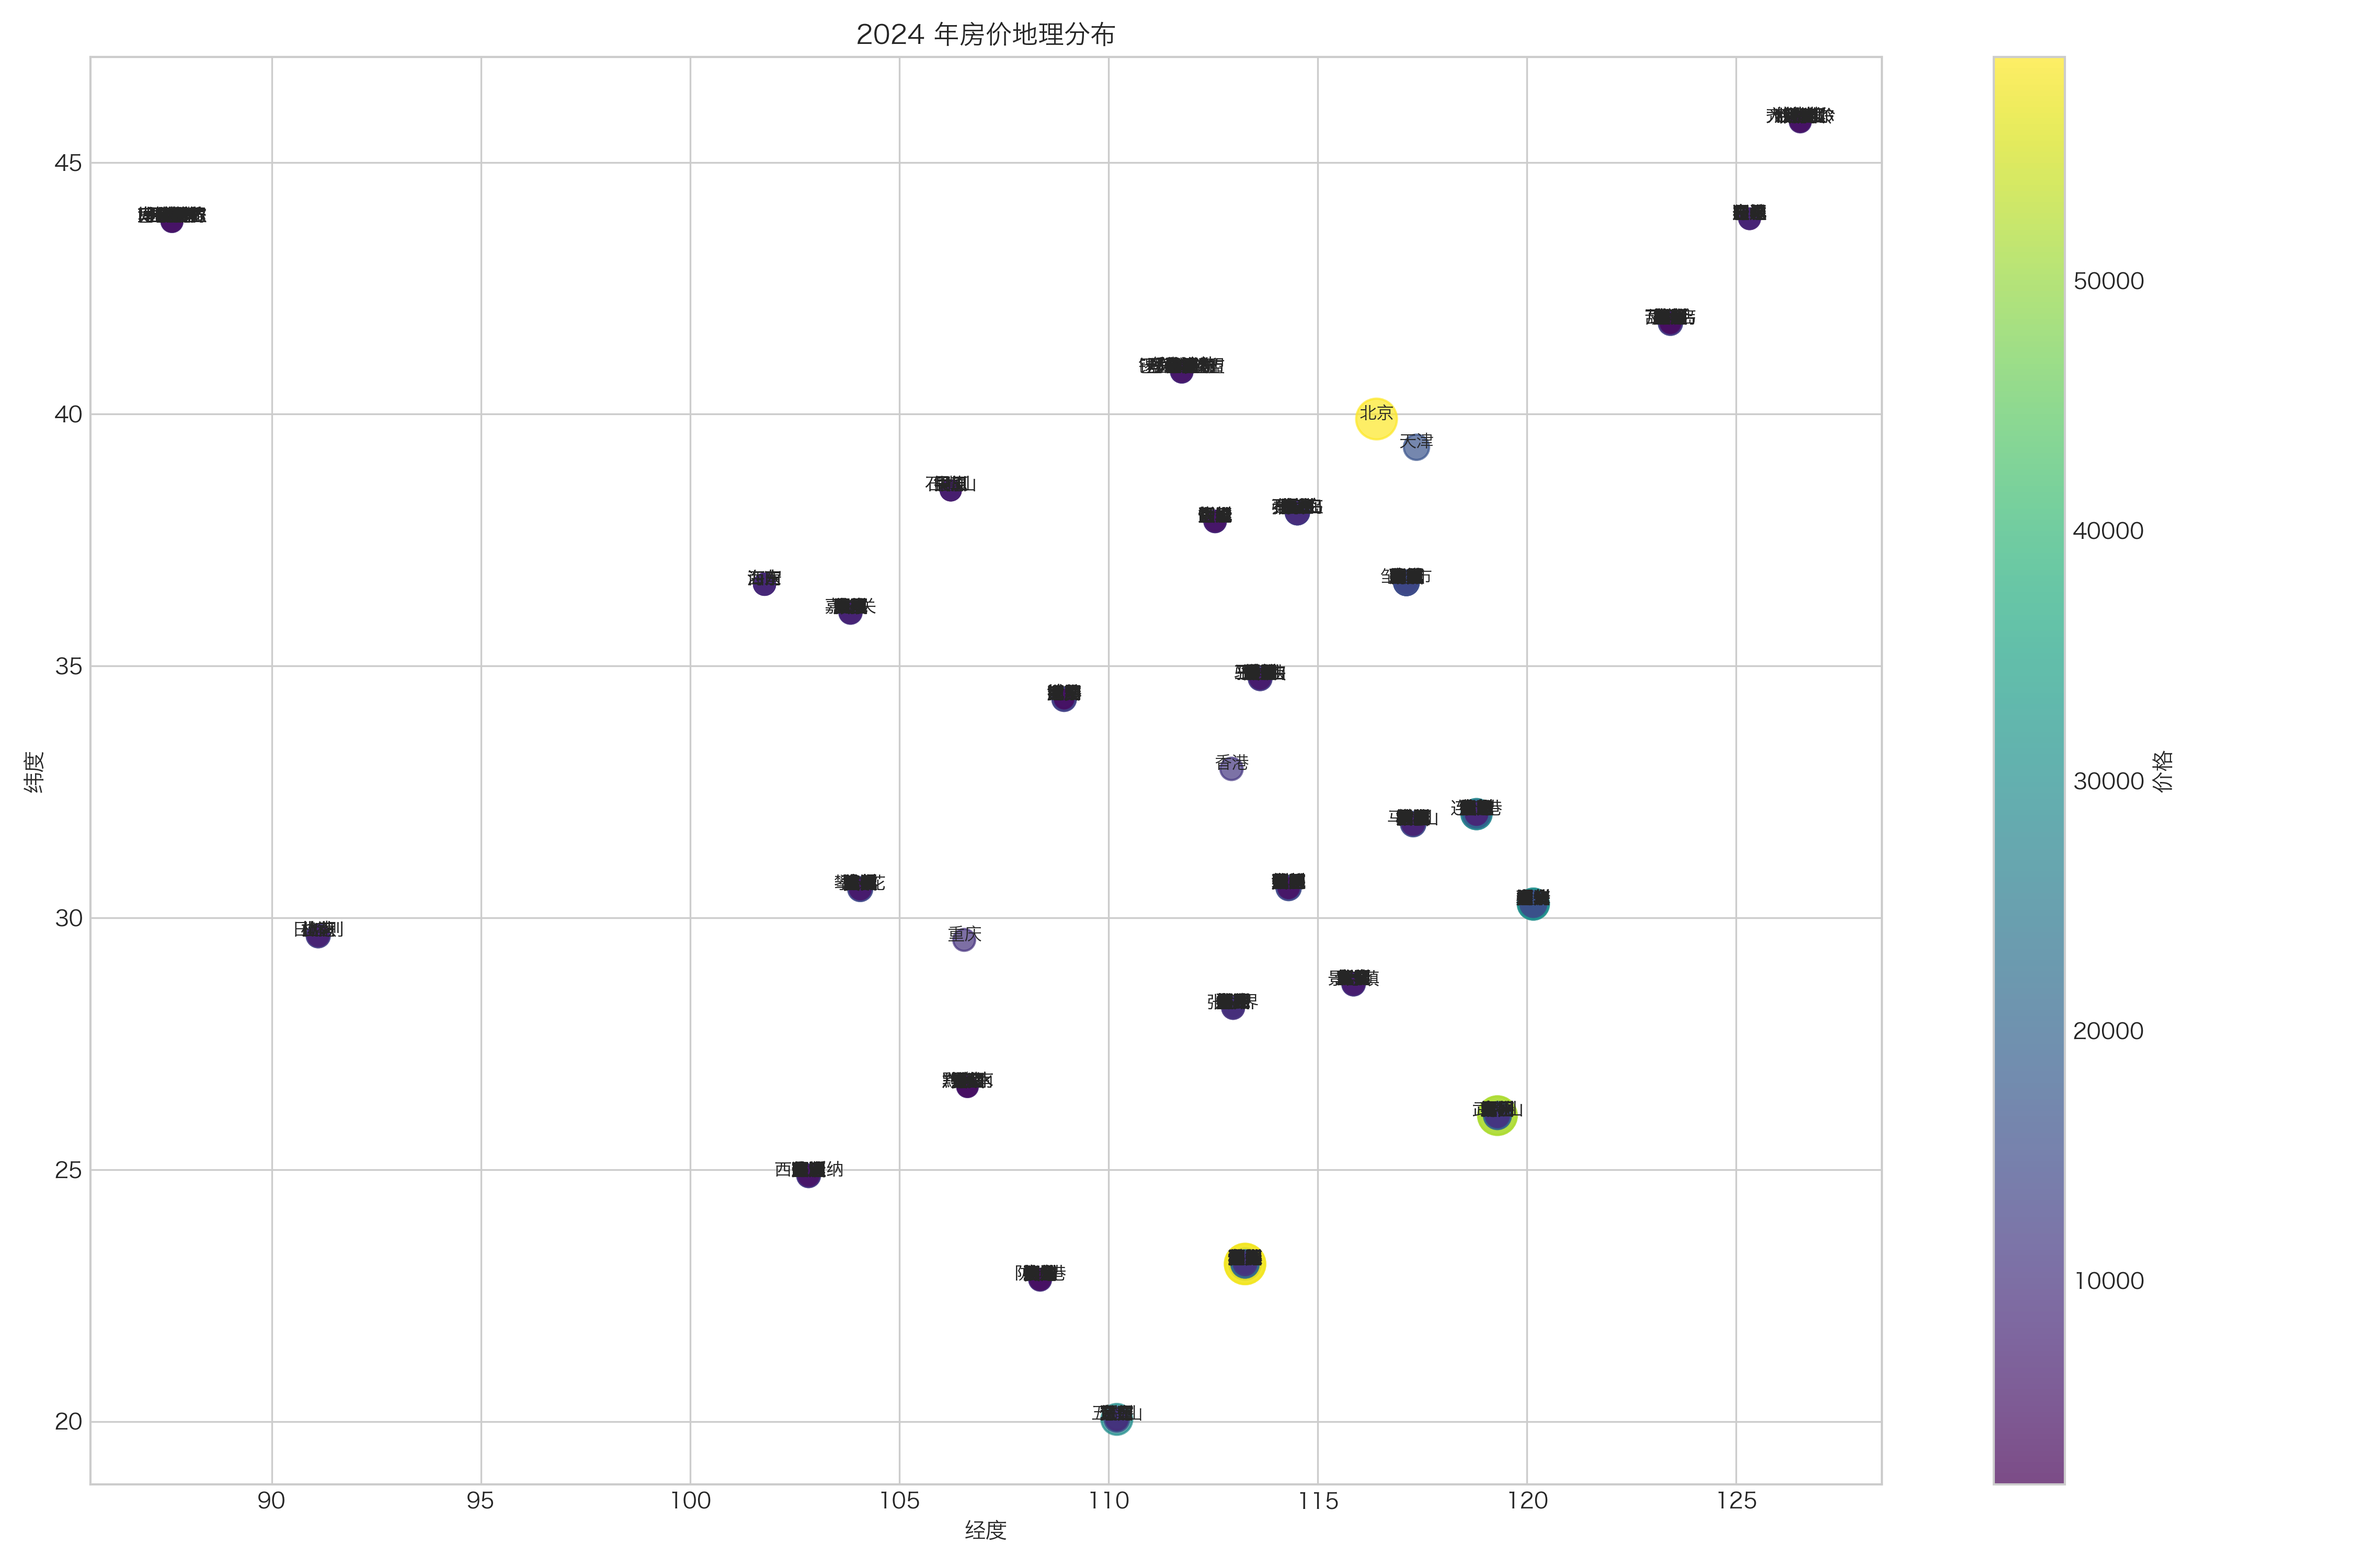
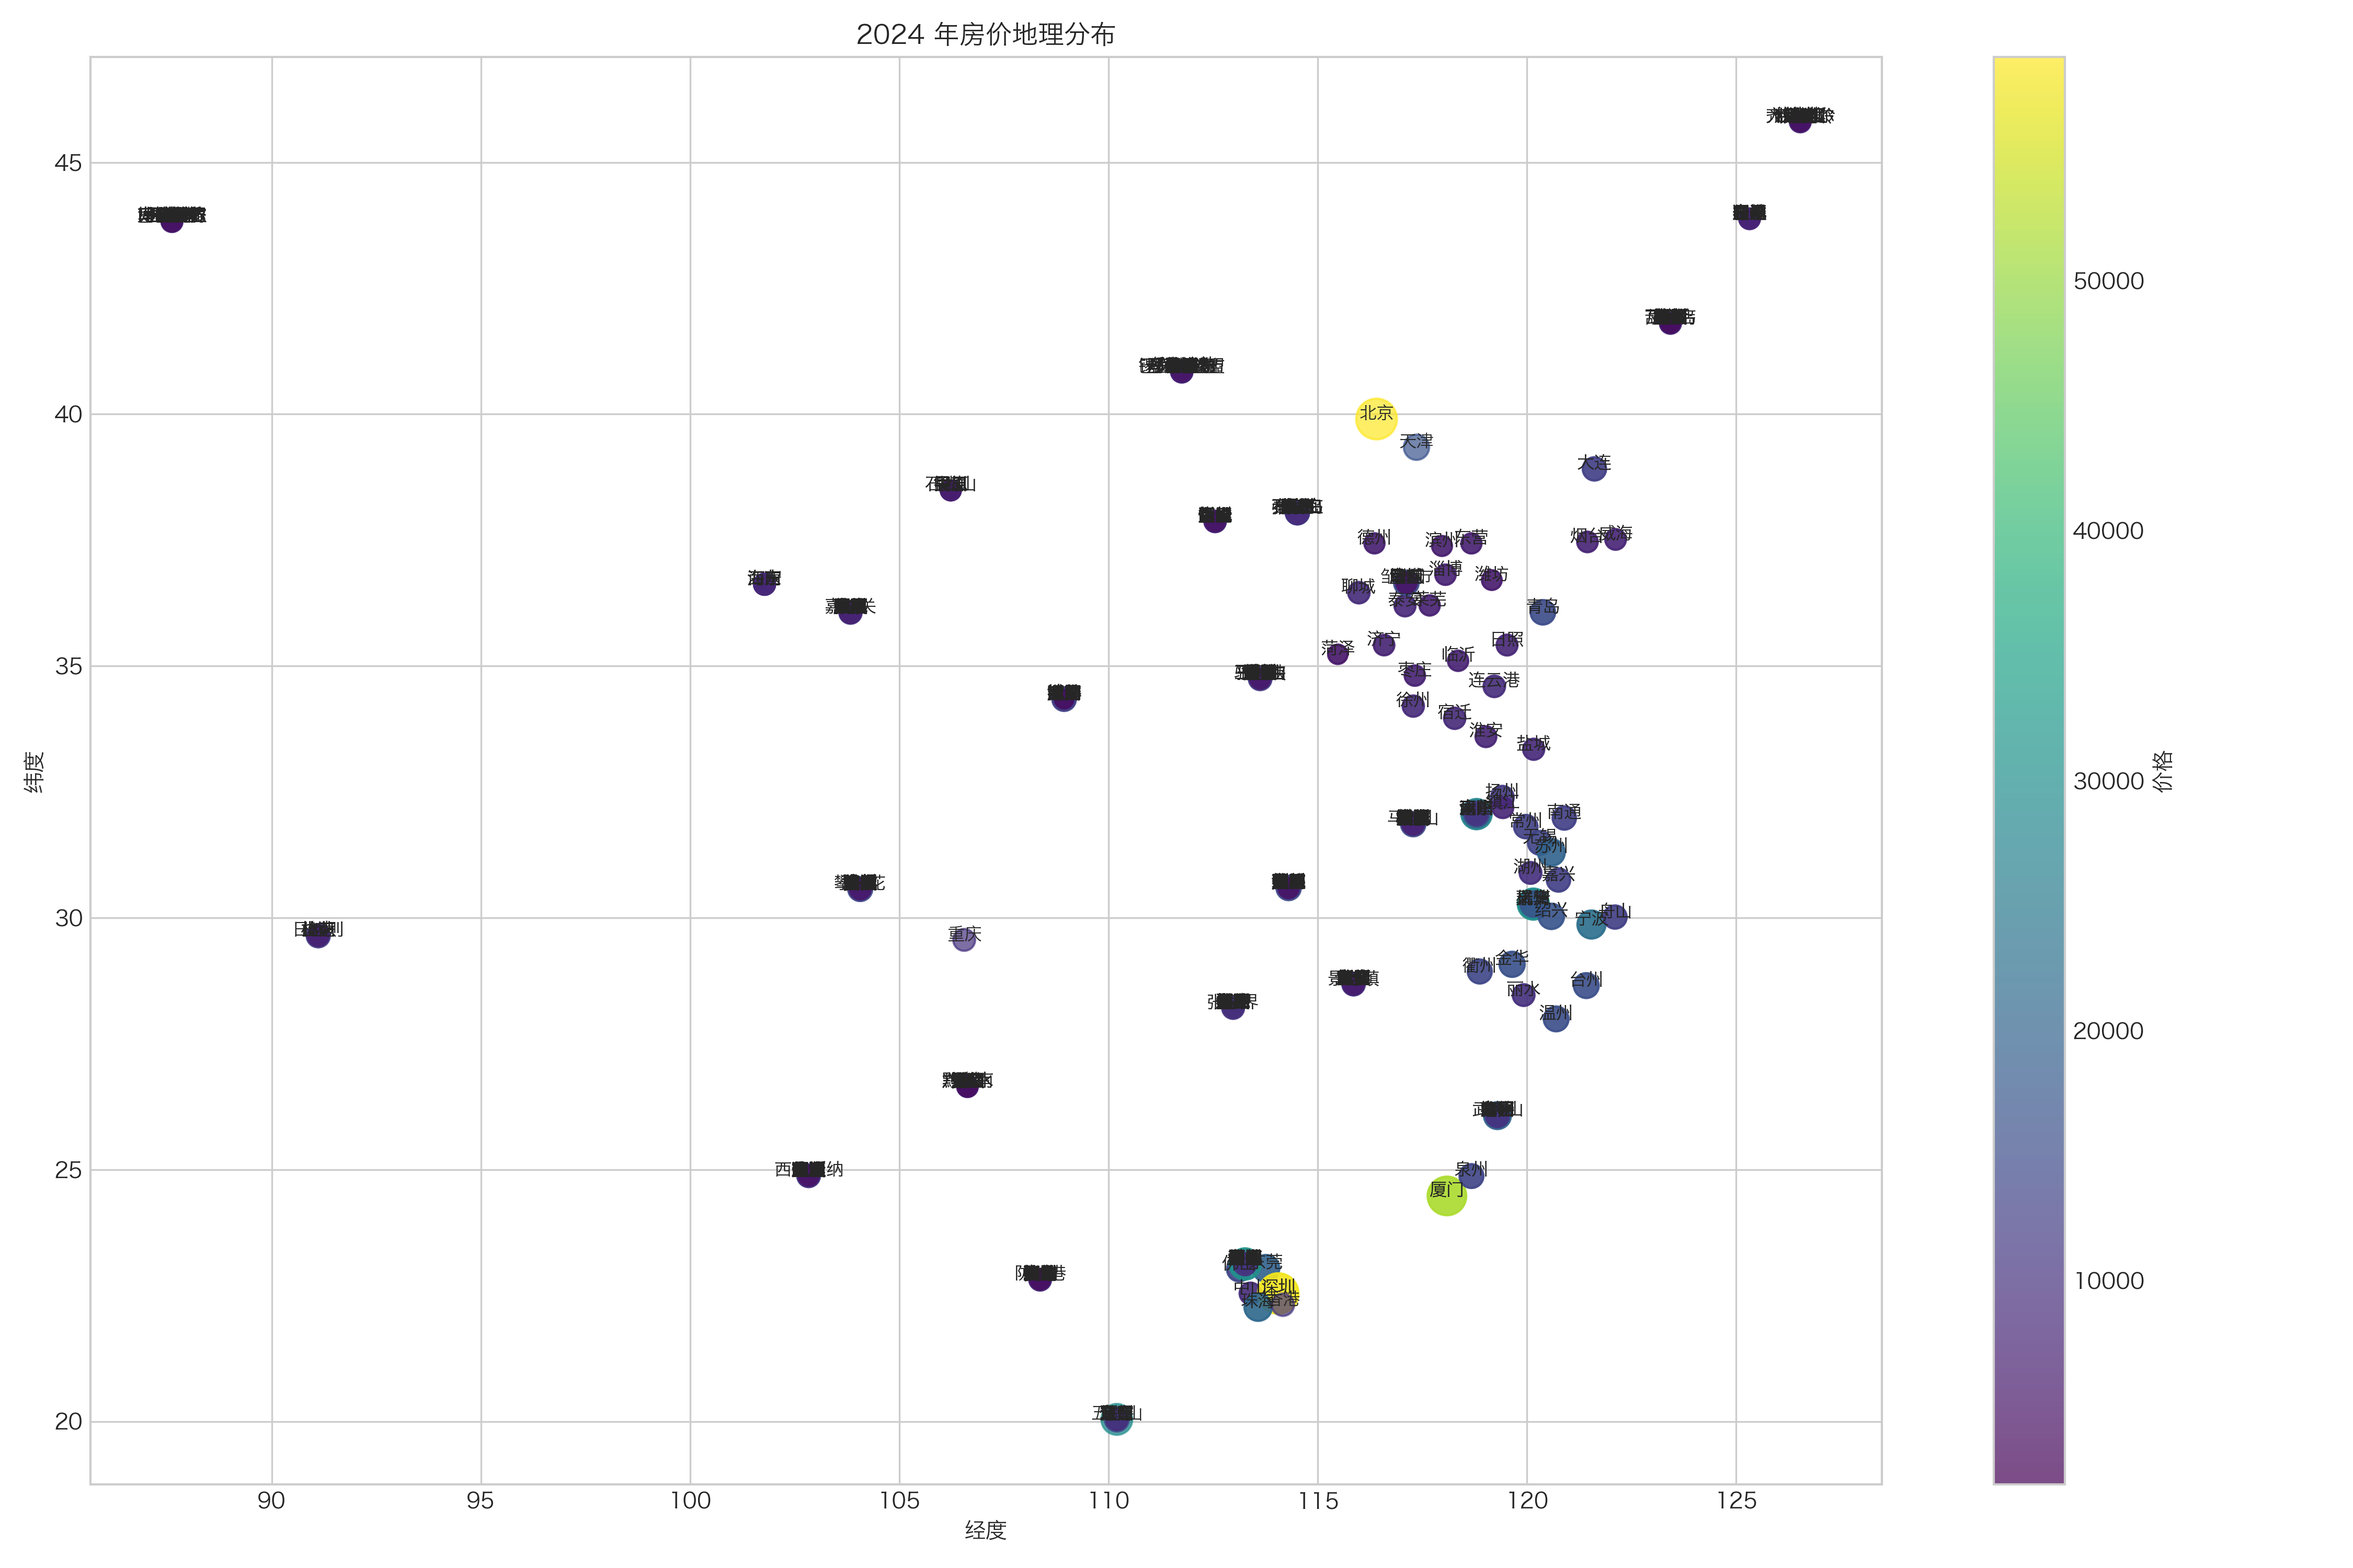
update

diff --git a/main.py b/main.py
@@ -1,5 +1,5 @@
 """
-房价预测模型 - 时空注意力混合专家模型（简化版）
+房价预测模型 - 时空注意力混合专家模型
 ==================================
 该模型结合了最新的深度学习算法与传统机器学习方法，优化内存使用。
 
@@ -56,6 +56,21 @@ CITY_COORDS = {
     "福州": (26.0745, 119.2965),
     "南昌": (28.6829, 115.8581),
     "济南": (36.6512, 117.1201),
+    "青岛": (36.0671, 120.3826),
+    "大连": (38.9140, 121.6147),
+    "厦门": (24.4798, 118.0894),
+    "宁波": (29.8683, 121.5440),
+    "苏州": (31.2990, 120.5853),
+    "无锡": (31.4900, 120.3117),
+    "温州": (27.9944, 120.6997),
+    "佛山": (23.0218, 113.1219),
+    "东莞": (23.0430, 113.7633),
+    "珠海": (22.2710, 113.5767),
+    "中山": (22.5451, 113.3926),
+    "常州": (31.8122, 119.9744),
+    "绍兴": (30.0307, 120.5853),
+    "泉州": (24.8741, 118.6759),
+    "嘉兴": (30.7522, 120.7555),
     "郑州": (34.7466, 113.6253),
     "武汉": (30.5928, 114.3055),
     "长沙": (28.2130, 112.9793),
@@ -72,7 +87,36 @@ CITY_COORDS = {
     "西宁": (36.6232, 101.7799),
     "银川": (38.4872, 106.2309),
     "乌鲁木齐": (43.8256, 87.6168),
-    # 添加更多城市...
+    "深圳": (22.5431, 114.0579),
+    "徐州": (34.2044, 117.2857),
+    "南通": (31.9829, 120.8944),
+    "扬州": (32.3947, 119.4142),
+    "镇江": (32.1885, 119.4251),
+    "盐城": (33.3477, 120.1633),
+    "淮安": (33.5975, 119.0215),
+    "连云港": (34.5965, 119.2215),
+    "宿迁": (33.9631, 118.2751),
+    "台州": (28.6560, 121.4205),
+    "金华": (29.0784, 119.6474),
+    "湖州": (30.8927, 120.0881),
+    "衢州": (28.9355, 118.8742),
+    "舟山": (30.0162, 122.1069),
+    "丽水": (28.4672, 119.9229),
+    "潍坊": (36.7064, 119.1618),
+    "烟台": (37.4638, 121.4479),
+    "威海": (37.5135, 122.1209),
+    "济宁": (35.4154, 116.5874),
+    "临沂": (35.1045, 118.3564),
+    "德州": (37.4355, 116.3575),
+    "滨州": (37.3835, 117.9717),
+    "菏泽": (35.2333, 115.4809),
+    "日照": (35.4164, 119.5270),
+    "泰安": (36.1941, 117.0875),
+    "淄博": (36.8131, 118.0548),
+    "枣庄": (34.8100, 117.3230),
+    "东营": (37.4346, 118.6747),
+    "聊城": (36.4558, 115.9855),
+    "莱芜": (36.2033, 117.6768),
 }
 
 # 省级行政区域中心点
@@ -108,6 +152,9 @@ PROVINCE_COORDS = {
     "青海": (36.6232, 101.7799),
     "宁夏": (38.4872, 106.2309),
     "新疆": (43.8256, 87.6168),
+    "台湾": (23.6978, 120.9605),
+    "香港": (22.3193, 114.1694),
+    "澳门": (22.1987, 113.5439)
 }
 
 class DataProcessor:
